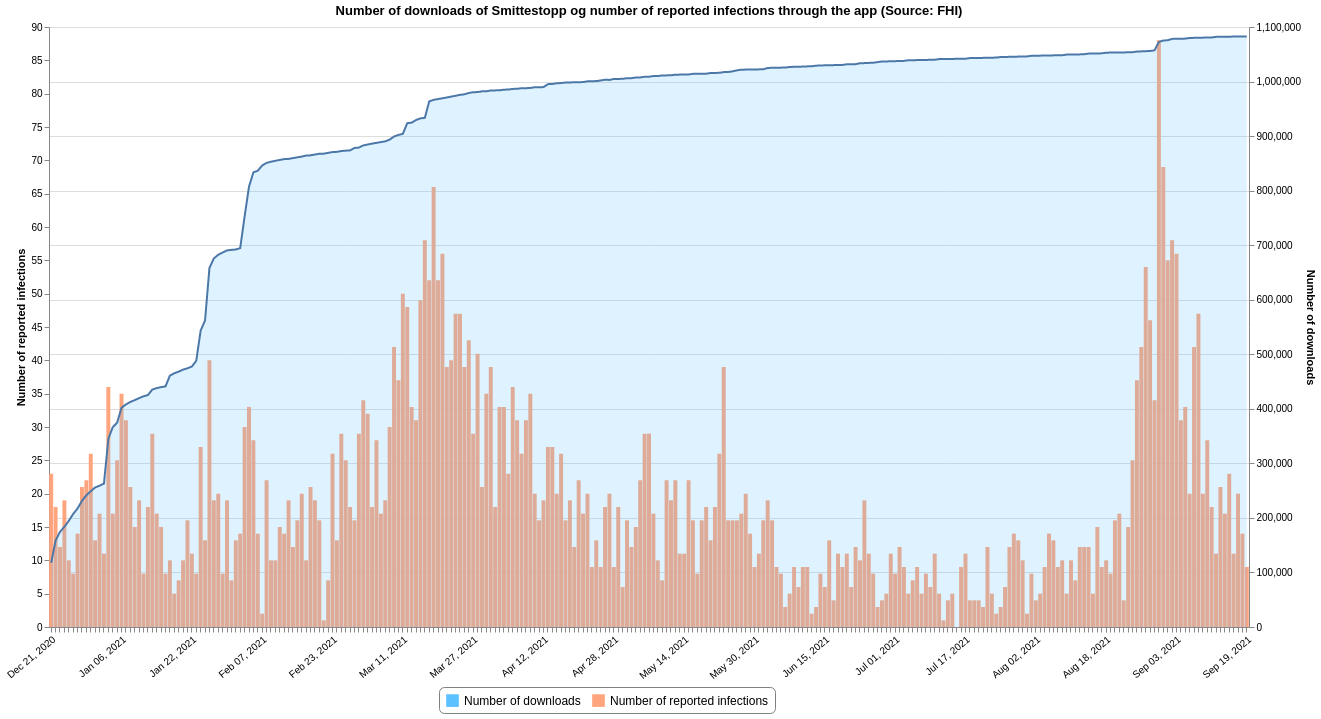
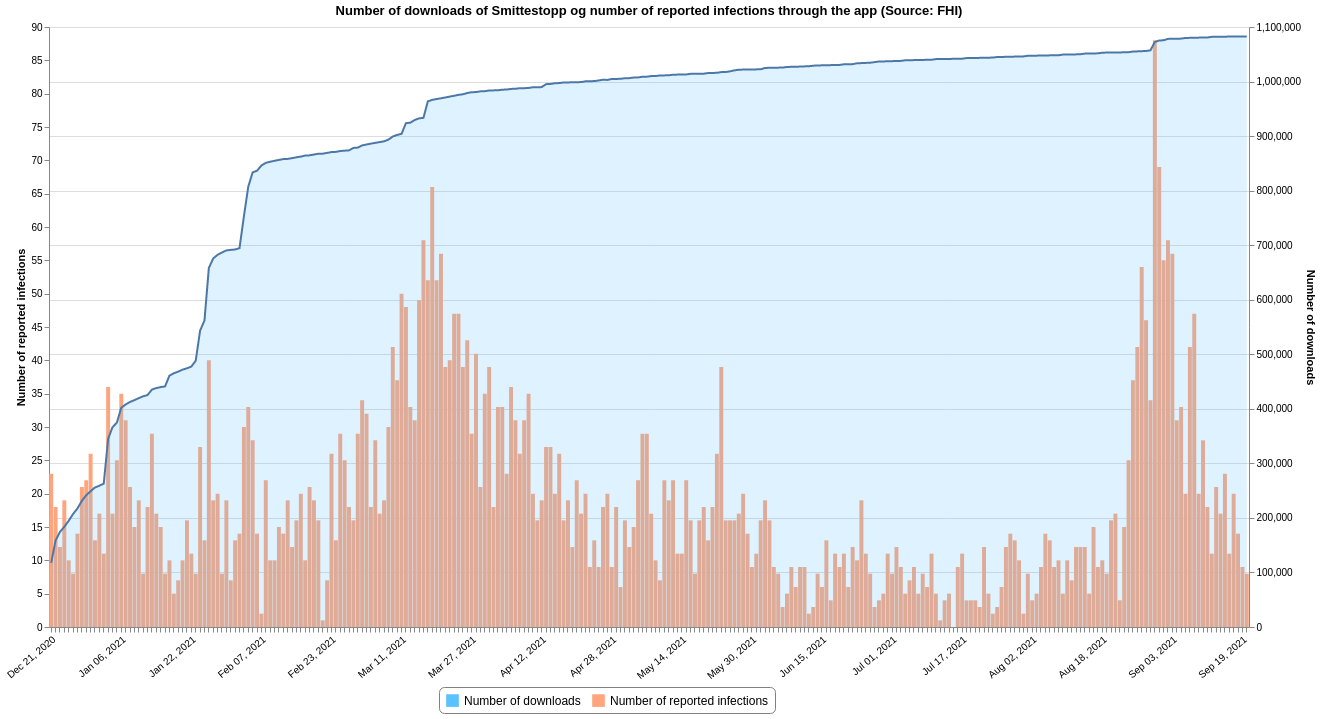
Updated 2021-09-21 12:10

diff --git a/README.md b/README.md
@@ -17,7 +17,7 @@ This repository contains datasets of daily time-series data related to COVID-19 
 |[Tested Lab](#tested_labcsv)|FHI|2021-09-20 13:20:52+02:00|[<center>csv</center>](https://raw.githubusercontent.com/frefrik/covid19norge-data/main/data/tested_lab.csv)|[<center>preview</center>](data/tested_lab.csv)|
 |[Transport](#transportcsv)|FHI|2021-09-21 09:30:55+02:00|[<center>csv</center>](https://raw.githubusercontent.com/frefrik/covid19norge-data/main/data/transport.csv)|[<center>preview</center>](data/transport.csv)|
 |[Vaccine Doses](#vaccine_dosescsv)|FHI|2021-09-20 13:20:58+02:00|[<center>csv</center>](https://raw.githubusercontent.com/frefrik/covid19norge-data/main/data/vaccine_doses.csv)|[<center>preview</center>](data/vaccine_doses.csv)|
-|[Smittestopp](#smittestoppcsv)|FHI|2021-09-20 09:50:54+02:00|[<center>csv</center>](https://raw.githubusercontent.com/frefrik/covid19norge-data/main/data/smittestopp.csv)|[<center>preview</center>](data/smittestopp.csv)|
+|[Smittestopp](#smittestoppcsv)|FHI|2021-09-21 12:10:52+02:00|[<center>csv</center>](https://raw.githubusercontent.com/frefrik/covid19norge-data/main/data/smittestopp.csv)|[<center>preview</center>](data/smittestopp.csv)|
 <!-- table ends -->
 
 ## Datafiles
